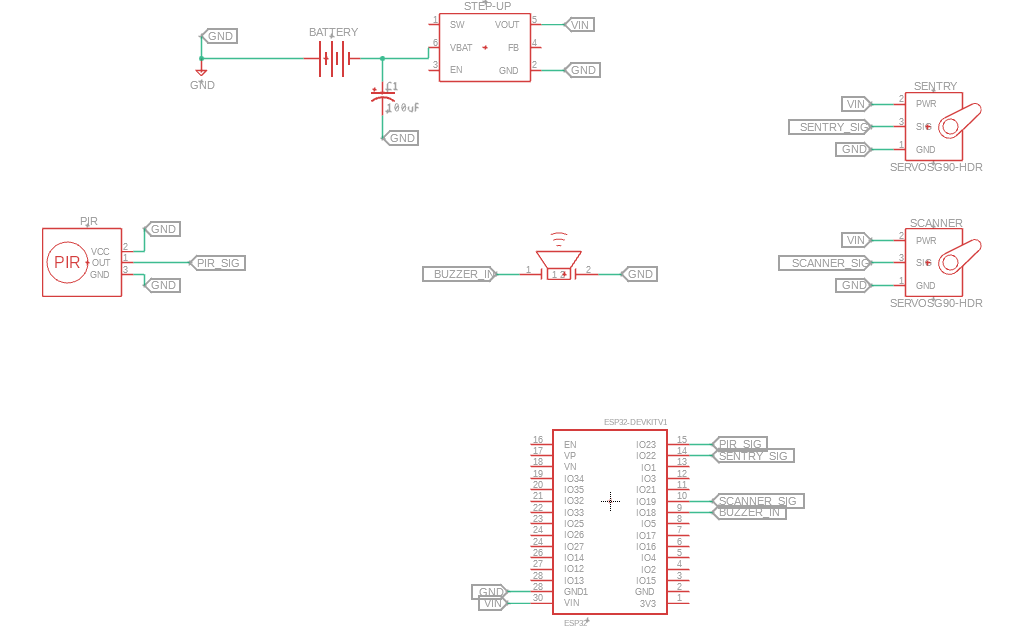
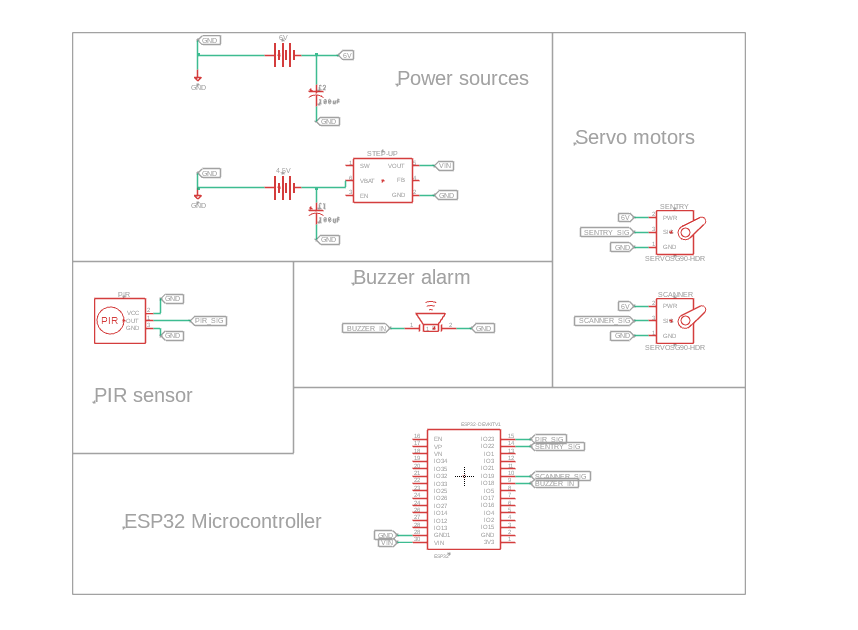
patch(img): fixed block and signal flow diagrams

diff --git a/app/include/util.h b/app/include/util.h
@@ -33,7 +33,7 @@ namespace msentry {
 	const int scannerNrAngles = 5;
 	// Scanner preset angles. Used in sentry to calculate turn angle
 	const int scannerAngles[] = {
-		0, 45, 90, 135, 180
+		25, 50, 90, 130, 155
 	};
 
 } // namespace msentry

diff --git a/README.md b/README.md
@@ -77,7 +77,6 @@ The system uses FreeRTOS for task management, with separate tasks for:
 ### Prerequisites
 - PlatformIO IDE (recommended), Visual Studio Code + PlatformIO extension or Arduino IDE
 - ESP32 board support package
-- ESP32 servo external library
 
 ### Build and Upload
 1. Clone the repository
